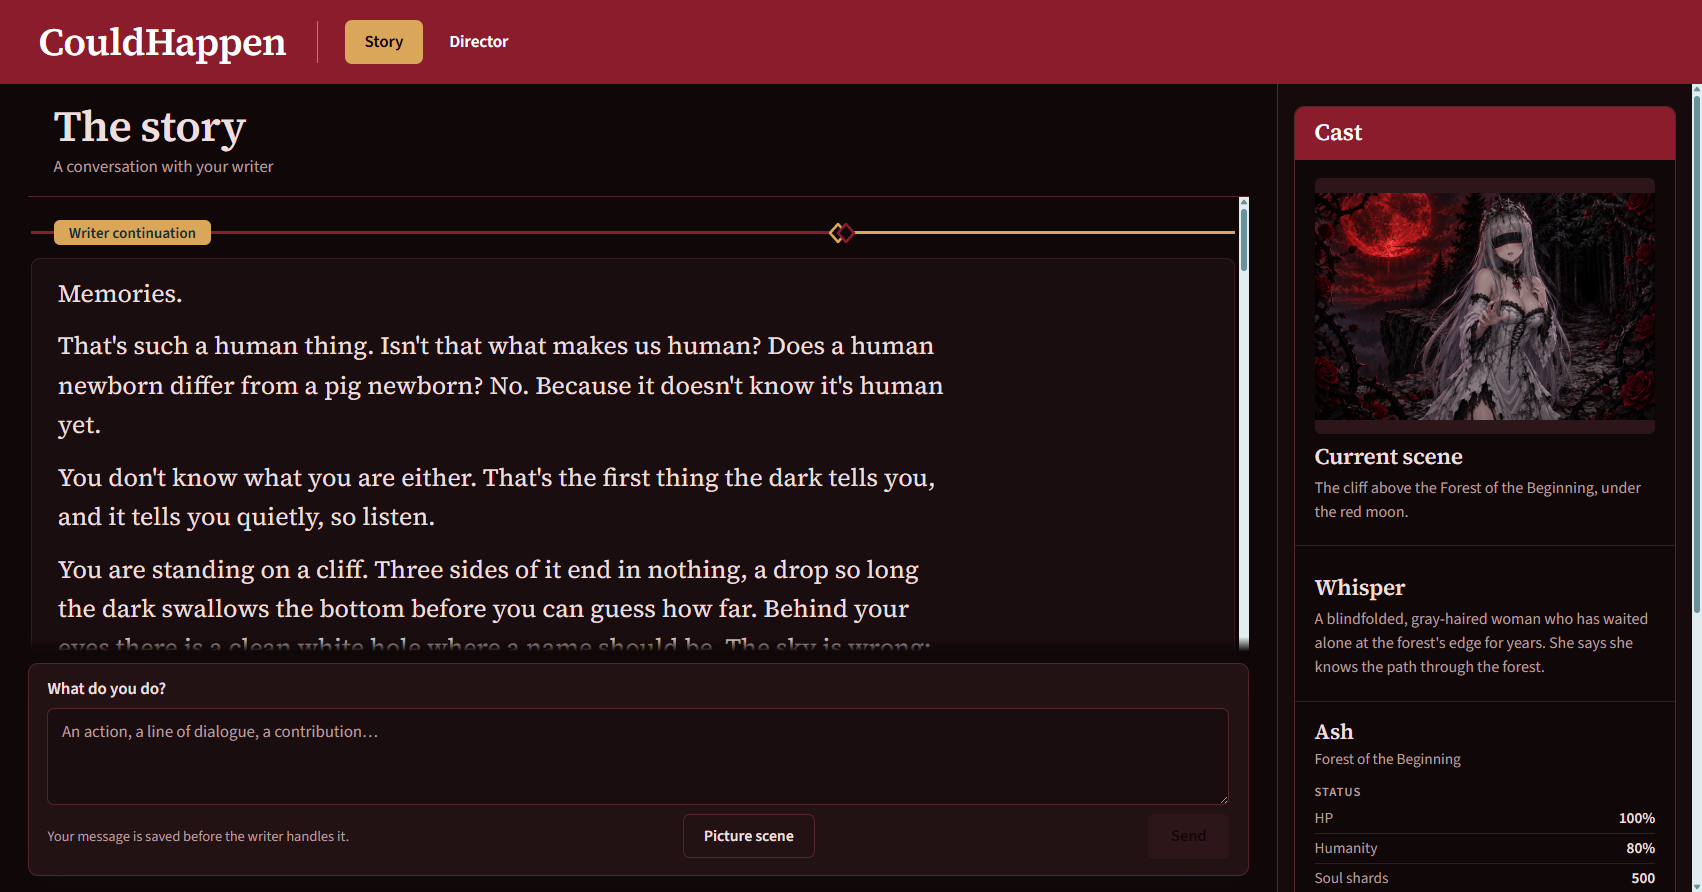
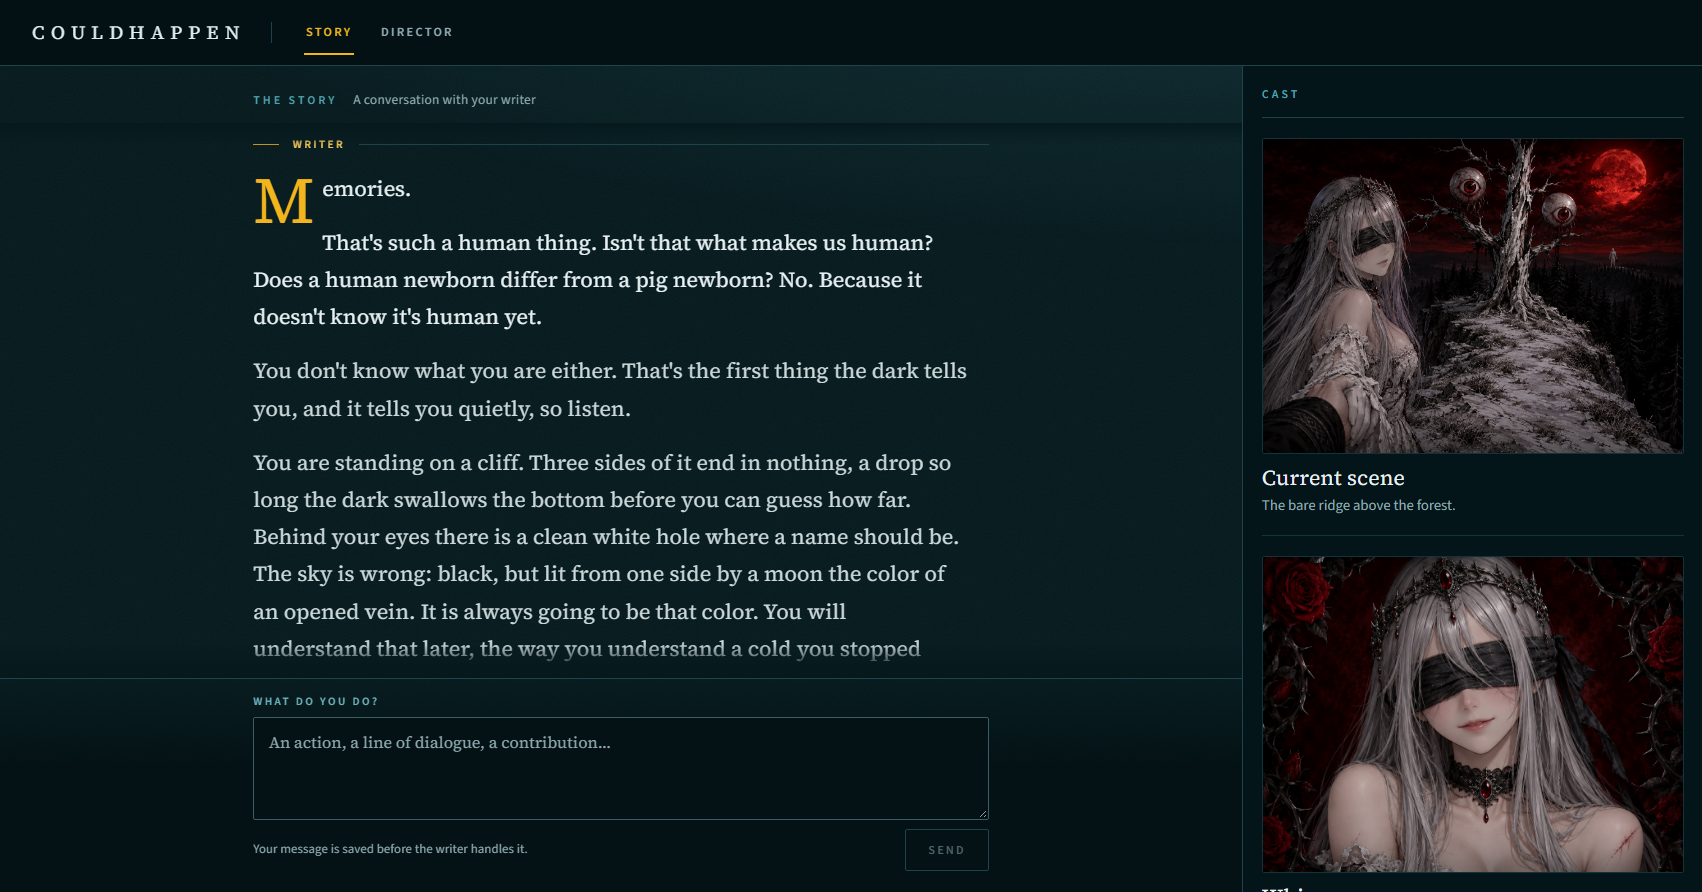
docs: retake the README screenshots in the restyled reader (ISS-6)

diff --git a/README.md b/README.md
@@ -6,10 +6,10 @@ CouldHappen turns your existing coding agent into a storyteller and game master,
 
 <!-- dev-only -->
 <p align="center">
-  <img src="docs/images/story-cast.png" alt="The Story tab showing prose, a scene illustration, a character portrait, description, and stats." width="900">
+  <img src="docs/images/story-cast.png" alt="The Story tab showing prose beside the cast panel, with a scene picture and a character portrait." width="900">
 </p>
 
-<p align="center"><sub>A story in progress. The writer chose the theme, created the artwork, and added the stats for this particular session.</sub></p>
+<p align="center"><sub>A story in progress in the stock reader. The writer created the scene pictures and portraits for this session.</sub></p>
 <!-- /dev-only -->
 
 ## What you can do

diff --git a/docs/plans/public-release.md b/docs/plans/public-release.md
@@ -16,6 +16,8 @@ Run `egm-drift-report` over the [design](../designs/couldhappen.md), [distributi
 
 Retake the screenshots in the README and on GitHub for the restyled reader ([ADR-6](../decisions/ADR-6-dark-petrol-reader.md)).
 
+**Closed 2026-11-11.** `story-cast.png`, `director.png` and `story-empty.png` were retaken at 1702×892 in the current stock reader, from a temporary copy of the public files of the 0.1.10 D&D story workspace (the story the old shots showed). `director-export.png` shows a reader a player built, not the stock one, so it was kept.
+
 ## ISS-17 — EGM design review
 
 The design's Open Questions say a fresh EGM design review of the [approved design](../designs/couldhappen.md) has not run, and that the predecessor reconciliation does not replace it.
